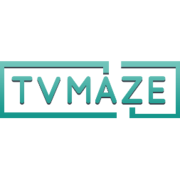
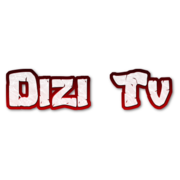
other app images updated.

Changed region(s): [[0.0, 0.3333, 1.0, 0.6667]]

diff --git a/vite.config.js b/vite.config.js
@@ -6,28 +6,25 @@ import { VitePWA } from 'vite-plugin-pwa'
 export default defineConfig({
   plugins: [
     vue(),
-    // VitePWA({
-    //   includeAssets: ['favicon.ico', 'robots.txt', 'apple-touch-icon.png'],
-    //   workbox: {
-    //     sourcemap: true
-    //   },
-    //   strategies: 'injectManifest',
-    //   manifest: {
-    //     name: 'TV Maze',
-    //     short_name: 'TV Maze',
-    //     icons: [
-    //       {
-    //         src: '/android-chrome-192x192.png',
-    //         sizes: '192x192',
-    //         type: 'image/png',
-    //       },
-    //       {
-    //         src: '/android-chrome-512x512.png',
-    //         sizes: '512x512',
-    //         type: 'image/png',
-    //       },
-    //     ],
-    //   },
-    // }),
+    VitePWA({
+      includeAssets: ['favicon.ico', 'robots.txt', 'apple-touch-icon.png'],
+      strategies: 'injectManifest',
+      manifest: {
+        name: 'Dizi TV',
+        short_name: 'Dizi TV',
+        icons: [
+          {
+            src: '/android-chrome-192x192.png',
+            sizes: '192x192',
+            type: 'image/png',
+          },
+          {
+            src: '/android-chrome-384x384.png',
+            sizes: '384x384',
+            type: 'image/png',
+          },
+        ],
+      },
+    }),
   ]
 })

diff --git a/index.html b/index.html
@@ -9,7 +9,7 @@
   <link rel="apple-touch-icon" sizes="180x180" href="/apple-touch-icon.png">
   <link rel="icon" type="image/png" sizes="32x32" href="/favicon-32x32.png">
   <link rel="icon" type="image/png" sizes="16x16" href="/favicon-16x16.png">
-  <link rel="manifest" href="/webmanifest.json">
+  <link rel="manifest" href="/site.webmanifest">
   <link rel="mask-icon" href="/safari-pinned-tab.svg" color="#5bbad5">
   <meta name="msapplication-TileColor" content="#da532c">
   <meta name="theme-color" content="#ffffff">
